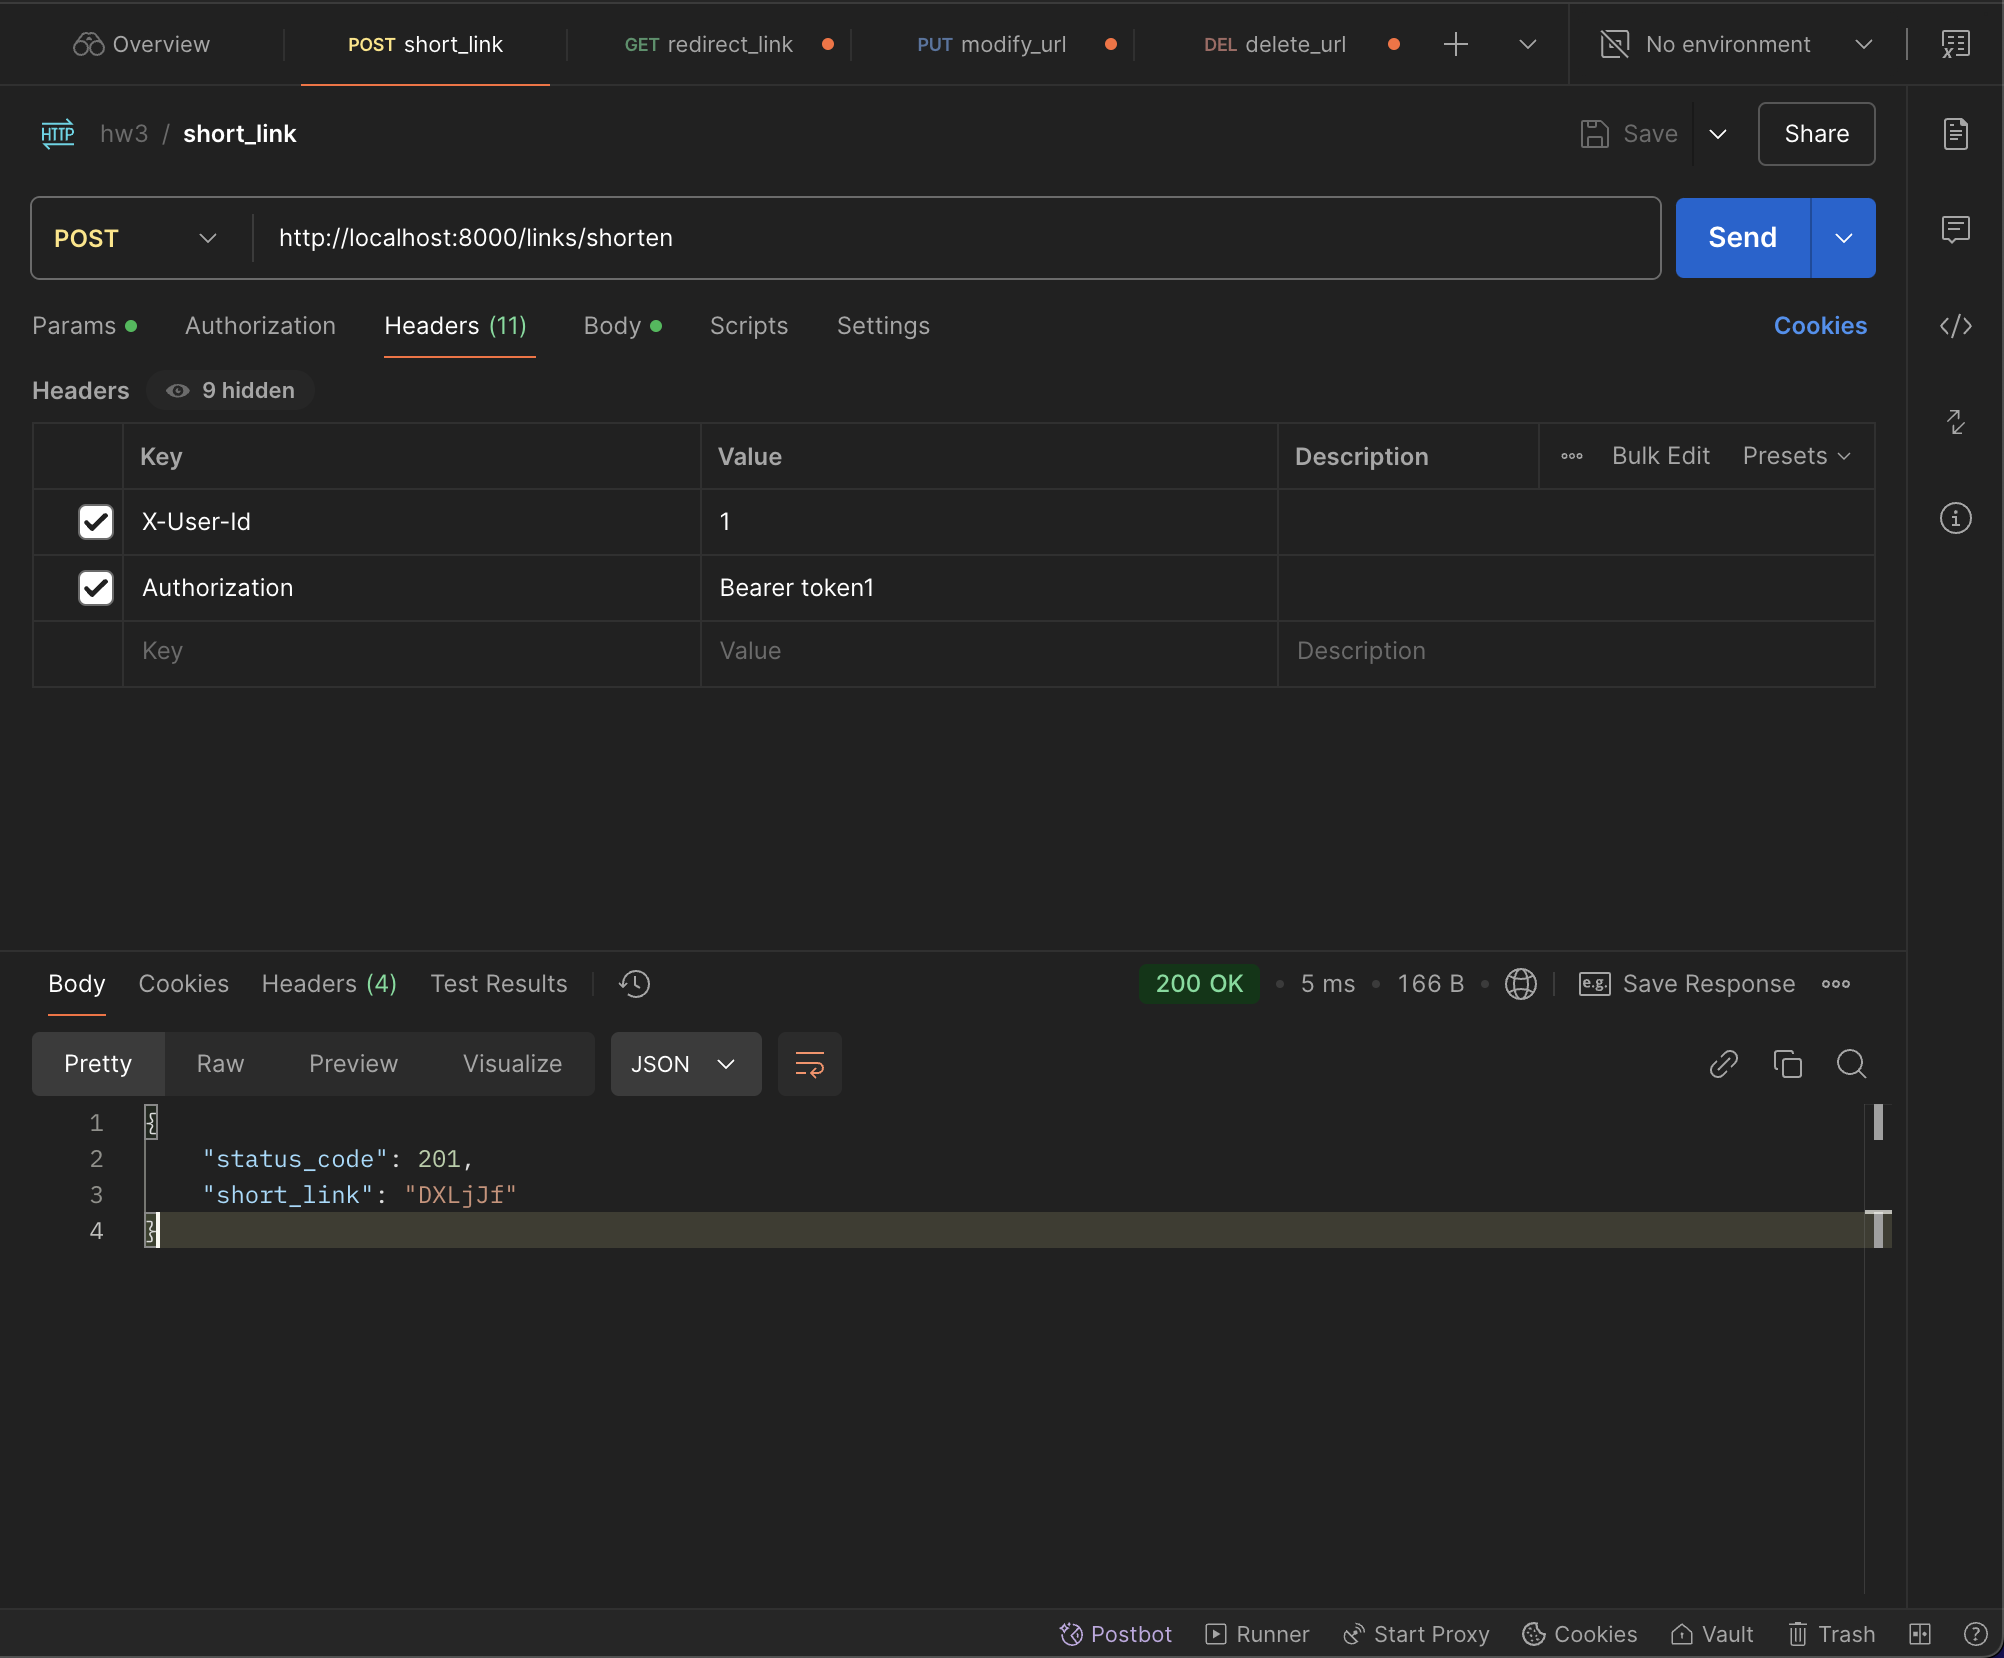
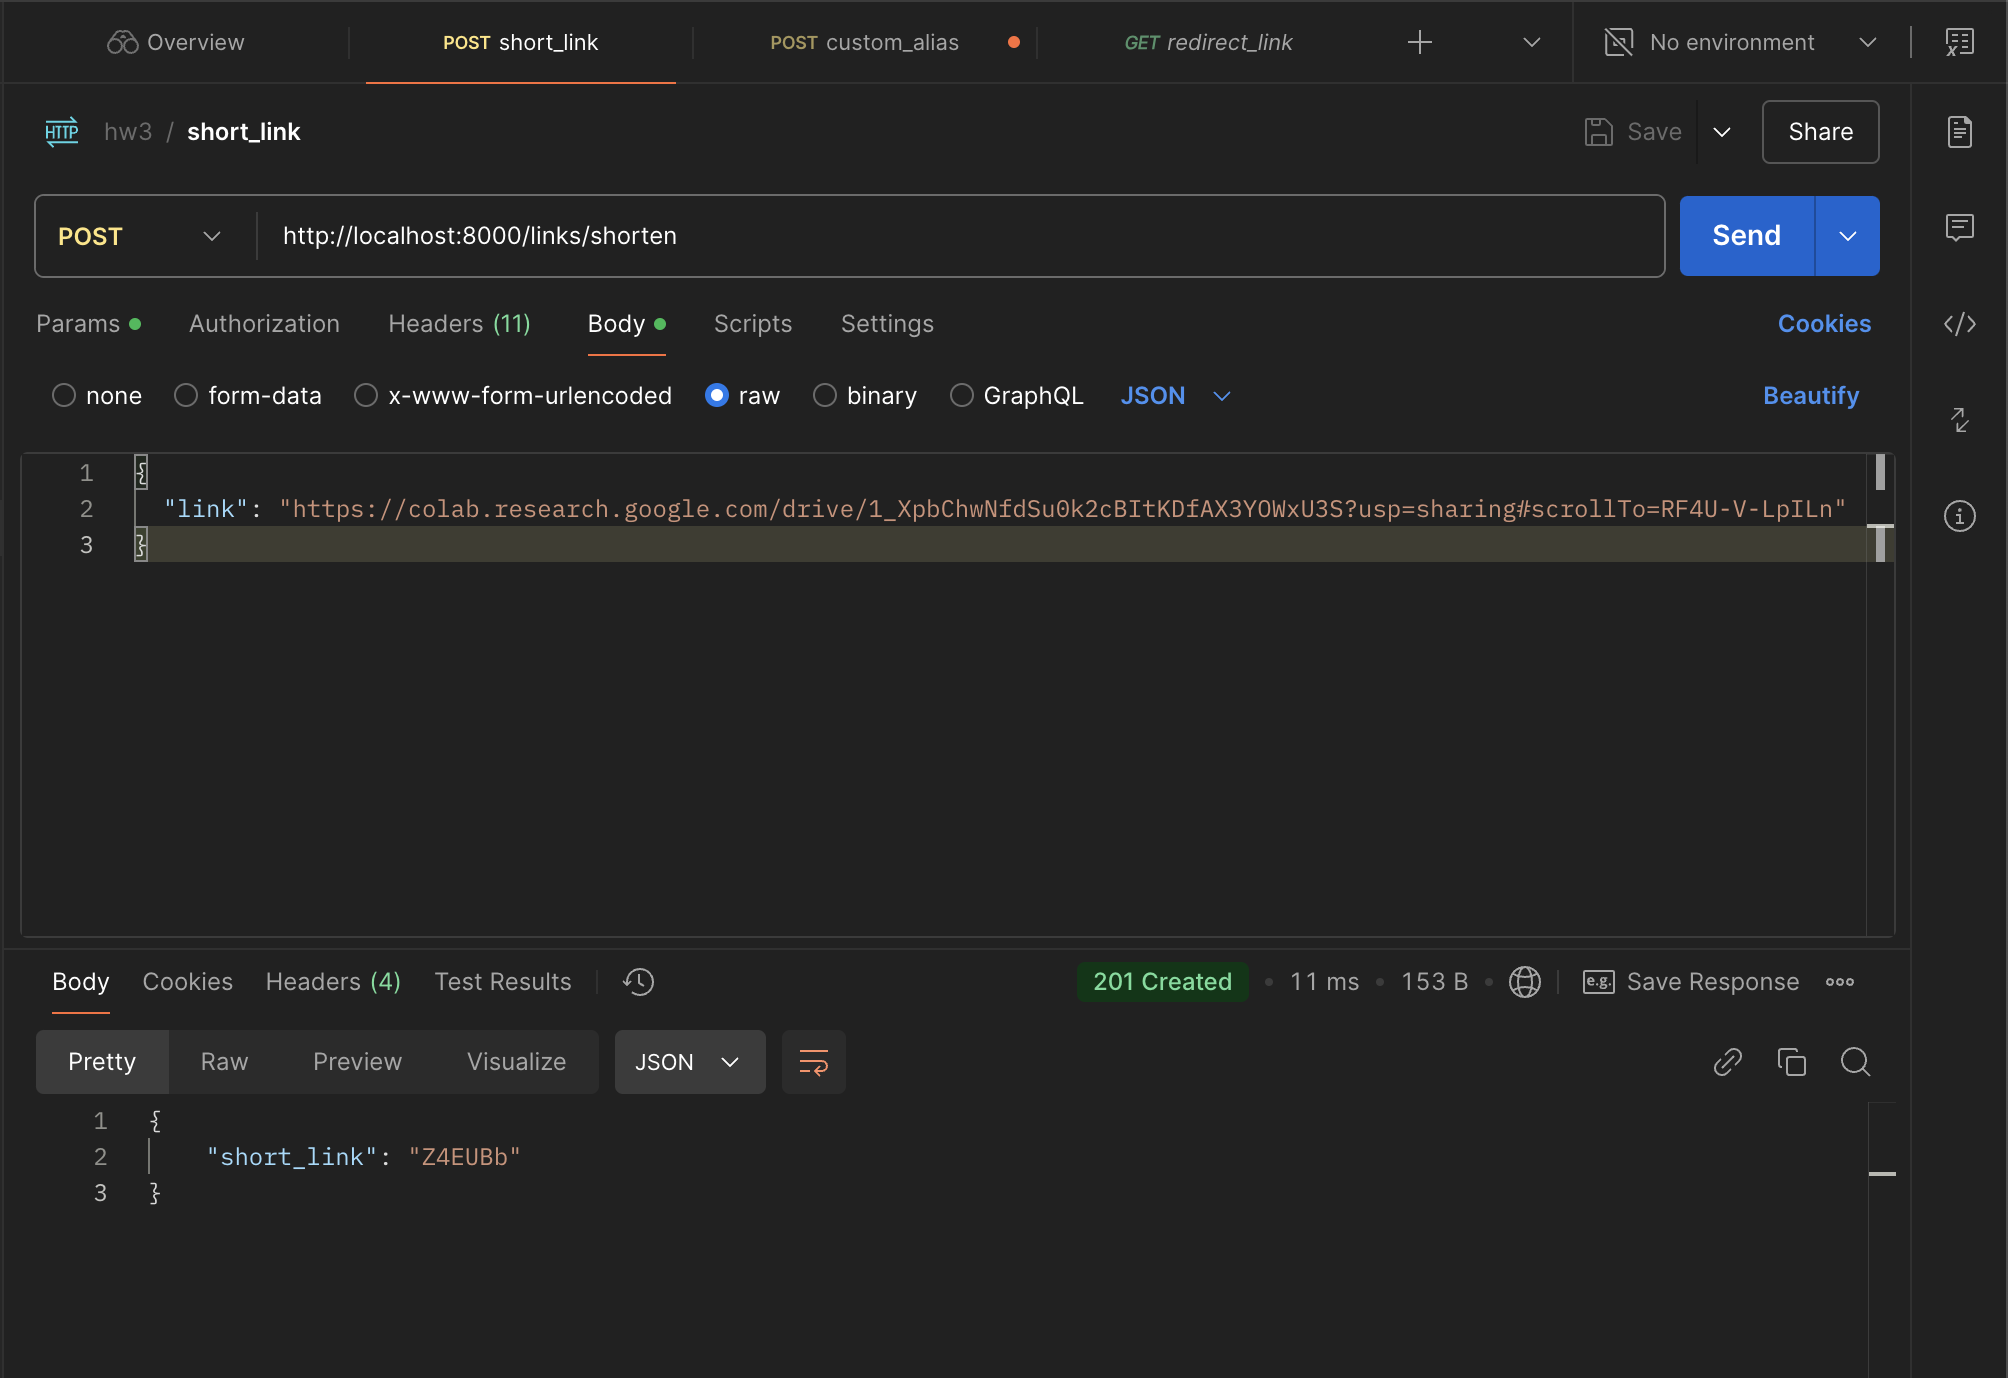
feat: deleting expired links

diff --git a/app.py b/app.py
@@ -1,20 +1,24 @@
 import os
 import logging
 import aioredis
+import asyncio
 
 from fastapi import FastAPI, HTTPException, Request
-from service import Service
-from repository import Repository
-from entity import LinkRequest
 from fastapi.responses import RedirectResponse, JSONResponse
-
 from fastapi_cache import FastAPICache
 from fastapi_cache.backends.redis import RedisBackend
 from fastapi_cache.decorator import cache
 
+from apscheduler.schedulers.asyncio import AsyncIOScheduler
+
+from service import Service
+from repository import Repository
+from entity import LinkRequest, CustomLinkRequest
+
 logging.basicConfig(level=logging.INFO)
 
 my_app = FastAPI()
+scheduler = AsyncIOScheduler()
 
 db_url = os.environ.get('DATABASE_URL')
 repo = Repository(db_url)
@@ -26,14 +30,18 @@ async def startup_event():
     await repo.connect()
     await repo.create_table()
     FastAPICache.init(RedisBackend(redis), prefix="fastapi-cache")
+    
+    scheduler.add_job(delete_expired_links, 'interval', minutes=1) 
+    scheduler.start()
 
 @my_app.on_event("shutdown")
 async def shutdown_event():
+    scheduler.shutdown()
     await repo.close()
 
 @my_app.post('/links/shorten')
 @cache(expire=120)
-async def get_short_link(request: Request, link_request: LinkRequest):
+async def create_short_link(request: Request, link_request: LinkRequest):
     user_id = request.headers.get('X-User-Id')
     token = request.headers.get('Authorization').split()[1] if request.headers.get('Authorization') else None
     
@@ -42,23 +50,17 @@ async def get_short_link(request: Request, link_request: LinkRequest):
     if user_id and token:
         user = await repo.find_user_by_token_and_id(int(user_id), token)
         if user:
-            result = await service.create_short_link(link_request.link, int(user_id), True)
+            result = await service.create_short_link(link_request.link, int(user_id), True, link_request.expires_at)
             if result:
-                return {
-                    "status_code": result['status_code'],
-                    "short_link": result['short_link']
-                }
+                return JSONResponse(content={"short_link": result['short_link']}, status_code=201)
             else:
                 raise HTTPException(status_code=500, detail="Failed to shorten link")
         else:
             raise HTTPException(status_code=401, detail="Unauthorized")
     else:
-        result = await service.create_short_link(link_request.link, None, False)
+        result = await service.create_short_link(link_request.link, None, False, link_request.expires_at)
         if result:
-            return {
-                "status_code": result['status_code'],
-                "short_link": result['short_link']
-            }
+            return JSONResponse(content={"short_link": result['short_link']}, status_code=201)
         else:
             raise HTTPException(status_code=500, detail="Failed to shorten link")
         
@@ -127,3 +129,48 @@ async def get_stats(short_code: str, request: Request):
         raise HTTPException(status_code=403, detail="Stats not found")
     
     return JSONResponse(content=stats, media_type="application/json")
+
+
+@my_app.post('/links/custom_shorten')
+@cache(expire=120)
+async def create_custom_short_link(request: Request, link_request: CustomLinkRequest):
+    user_id = request.headers.get('X-User-Id')
+    token = request.headers.get('Authorization').split()[1] if request.headers.get('Authorization') else None
+    
+    logging.info(f"Запрос от пользователя: {user_id} на создание короткой ссылки с кастомным алиасом")
+
+    if user_id and token:
+        user = await repo.find_user_by_token_and_id(int(user_id), token)
+        if user:
+            result = await service.create_short_link_with_custom_alias(link_request.link, link_request.custom_alias, int(user_id), True, link_request.expires_at)
+            if result:
+                return JSONResponse(content={"short_link": result['short_link']}, status_code=201)
+            else:
+                raise HTTPException(status_code=500, detail="Failed to shorten link")
+        else:
+            raise HTTPException(status_code=401, detail="Unauthorized")
+    else:
+        result = await service.create_short_link_with_custom_alias(link_request.link, link_request.custom_alias, None, False, link_request.expires_at)
+        if result:
+            return JSONResponse(content={"short_link": result['short_link']}, status_code=201)
+        else:
+            raise HTTPException(status_code=500, detail="Failed to shorten link")
+        
+@my_app.get('/search/links')
+@cache(expire=120)
+async def search_link_by_original_url(original_url: str):
+    if not original_url:
+        raise HTTPException(status_code=400, detail="Original URL is required")
+    
+    result = await service.find_short_link_by_original_url(original_url)
+    
+    if result:
+        return {
+            "short_link": result['short_link']
+        }
+    else:
+        raise HTTPException(status_code=404, detail="Link not found")
+    
+
+async def delete_expired_links():
+    await repo.delete_expired_links()

diff --git a/service.py b/service.py
@@ -5,6 +5,8 @@ import string
 
 from repository import Repository
 from typing import Optional
+from fastapi import HTTPException
+from datetime import datetime
 
 logging.basicConfig(level=logging.INFO)
 
@@ -17,32 +19,12 @@ class Service:
             cls._instance.repository = repository
         return cls._instance
 
-    async def create_short_link(self, full_link: str, user_id: int = None, is_authorized: bool = False) -> Optional[dict]:
-        symbols = string.ascii_letters + string.digits
-        max_attempts = 50
-        attempts = 0
-        
-        while attempts < max_attempts:
-            short_link = ''.join(random.choice(symbols) for _ in range(6))
-            
-            if await self.repository.find_original_url_by_short_code(short_link) is None:
-                break
-            attempts += 1
-        
-        if attempts == max_attempts:
-            return None
-        
-        await self.repository.save_link_with_user(full_link, short_link, user_id, is_authorized)
-        
-        return {
-            "status_code": 201,
-            "short_link": short_link
-        }
         
     async def get_original_url(self, short_code: str):
         await self.repository.save_access_statistics(short_code)
         return await self.repository.find_original_url_by_short_code(short_code)
     
+
     async def delete_link(self, short_code: str, user_id: int, token: str) -> bool:
         user = await self.repository.find_user_by_token_and_id(user_id, token)
         if user:
@@ -55,6 +37,7 @@ class Service:
         else:
             return False
         
+
     async def update_url(self, short_code: str, long_url: str, user_id: int, token: str) -> bool:
         user = await self.repository.find_user_by_token_and_id(user_id, token)
         if user:
@@ -88,4 +71,42 @@ class Service:
             return None
         
 
+    async def create_short_link(self, full_link: str, user_id: int = None, is_authorized: bool = False, expires_at: Optional[datetime] = None) -> Optional[dict]:
+        symbols = string.ascii_letters + string.digits
+        max_attempts = 50
+        attempts = 0
+        
+        while attempts < max_attempts:
+            short_link = ''.join(random.choice(symbols) for _ in range(6))
+            
+            if await self.repository.find_original_url_by_short_code(short_link) is None:
+                break
+            attempts += 1
+        
+        if attempts == max_attempts:
+            return None
+        
+        await self.repository.save_link_with_user(full_link, short_link, user_id, is_authorized, expires_at)
+        
+        return {
+            "status_code": 201,
+            "short_link": short_link
+        }
+    
+    
+    async def create_short_link_with_custom_alias(self, full_link: str, custom_alias: str, user_id: int = None, is_authorized: bool = False, expires_at: Optional[datetime] = None) -> Optional[dict]:
+        if await self.repository.find_original_url_by_short_code(custom_alias):
+            raise HTTPException(status_code=400, detail="Alias already exists")
+        
+        await self.repository.save_link_with_user(full_link, custom_alias, user_id, is_authorized, expires_at)
+        
+        return {
+            "status_code": 201,
+            "short_link": custom_alias
+        }
+    
+    
+    async def find_short_link_by_original_url(self, original_url: str) -> Optional[dict]:
+        logging.info("Попали в сервисный класс")
+        return await self.repository.find_short_link_by_original_url(original_url)
     

diff --git a/repository.py b/repository.py
@@ -40,6 +40,7 @@ class Repository:
                     full_link VARCHAR(255) NOT NULL,
                     short_link VARCHAR(255) NOT NULL,
                     created_at TIMESTAMP DEFAULT CURRENT_TIMESTAMP,
+                    expires_at TIMESTAMP,
                     user_id INTEGER,
                     is_authorized BOOLEAN DEFAULT FALSE
                 );
@@ -68,12 +69,12 @@ class Repository:
                 return None
 
 
-    async def save_link_with_user(self, full_link: str, short_link: str, user_id: int, is_authorized: bool):
+    async def save_link_with_user(self, full_link: str, short_link: str, user_id: int, is_authorized: bool, expires_at):
         async with self.pool.acquire() as conn:
             await conn.execute("""
-                INSERT INTO links (full_link, short_link, user_id, is_authorized)
-                VALUES ($1, $2, $3, $4)
-            """, full_link, short_link, user_id, is_authorized)
+                INSERT INTO links (full_link, short_link, user_id, is_authorized, expires_at)
+                VALUES ($1, $2, $3, $4, $5)
+            """, full_link, short_link, user_id, is_authorized, expires_at)
 
 
     async def find_original_url_by_short_code(self, short_url: str):
@@ -129,6 +130,7 @@ class Repository:
                 VALUES ($1)
             """, short_url)
 
+
     async def get_link_stats(self, short_url: str):
         async with self.pool.acquire() as conn:
             link_info_result = await conn.fetchrow("""
@@ -168,7 +170,31 @@ class Repository:
             }
             
             return jsonable_encoder(stats)
+        
 
+    async def check_alias_availability(self, alias: str) -> bool:
+        return await self.find_original_url_by_short_code(alias) is None
+
+
+    async def find_short_link_by_original_url(self, original_url: str):
+        async with self.pool.acquire() as conn:
+            logging.info("Запрос на поиск ссылки")
+            result = await conn.fetchrow("""
+                SELECT short_link FROM links WHERE full_link = $1
+            """, original_url)
+            logging.info(f"Результат запроса: {result}")
+            if result:
+                return {"short_link": result['short_link']}
+            else:
+                return None
+            
+    
+    async def delete_expired_links(self):
+        async with self.pool.acquire() as conn:
+            await conn.execute("""
+                DELETE FROM links WHERE expires_at IS NOT NULL AND expires_at < CURRENT_TIMESTAMP
+            """)
+            
 
     async def close(self):
         if self.pool:

diff --git a/entity.py b/entity.py
@@ -1,4 +1,12 @@
 from pydantic import BaseModel
+from typing import Optional
+from datetime import datetime
 
 class LinkRequest(BaseModel):
     link: str
+    expires_at: Optional[datetime] = None
+
+class CustomLinkRequest(BaseModel):
+    link: str
+    custom_alias: str
+    expires_at: Optional[datetime] = None

diff --git a/README.MD b/README.MD
@@ -1,7 +1,8 @@
 
 # 1. Демонстрация работы эндпоинтов
-## 1.1. Создание / удаление / изменение / получение информации по короткой ссылке:
 Проверка работоспособности эндпоинтов осуществлялась с помощью Postman запросов.
+# 1.1. Обязательные функции
+## 1.1.1. Создание / удаление / изменение / получение информации по короткой ссылке:
 `POST /links/shorten`
 ![alt text](image.png)
 
@@ -14,5 +15,24 @@
 `PUT /links/{short_code}`
 ![alt text](image-4.png)
 
+## 1.1.2. Статистика по ссылке:
 `GET /links/{short_code}/stats`
 ![alt text](image-5.png)
+
+## 1.1.3. Создание кастомных ссылок с уникальным alias:
+`POST /links/custom_shorten`
+![alt text](image-6.png)
+
+## 1.1.4. Поиск ссылки по оригинальному URL:
+`GET /links/search?original_url={url}`
+![alt text](image-7.png)
+![alt text](image-8.png)
+
+## 1.1.5. Указание времени жизни ссылки:
+`POST /links/shorten`
+![alt text](image-9.png)
+
+`POST /links/custom_shorten`
+![alt text](image-10.png)
+
+## 1.2. Дополнительные функции
